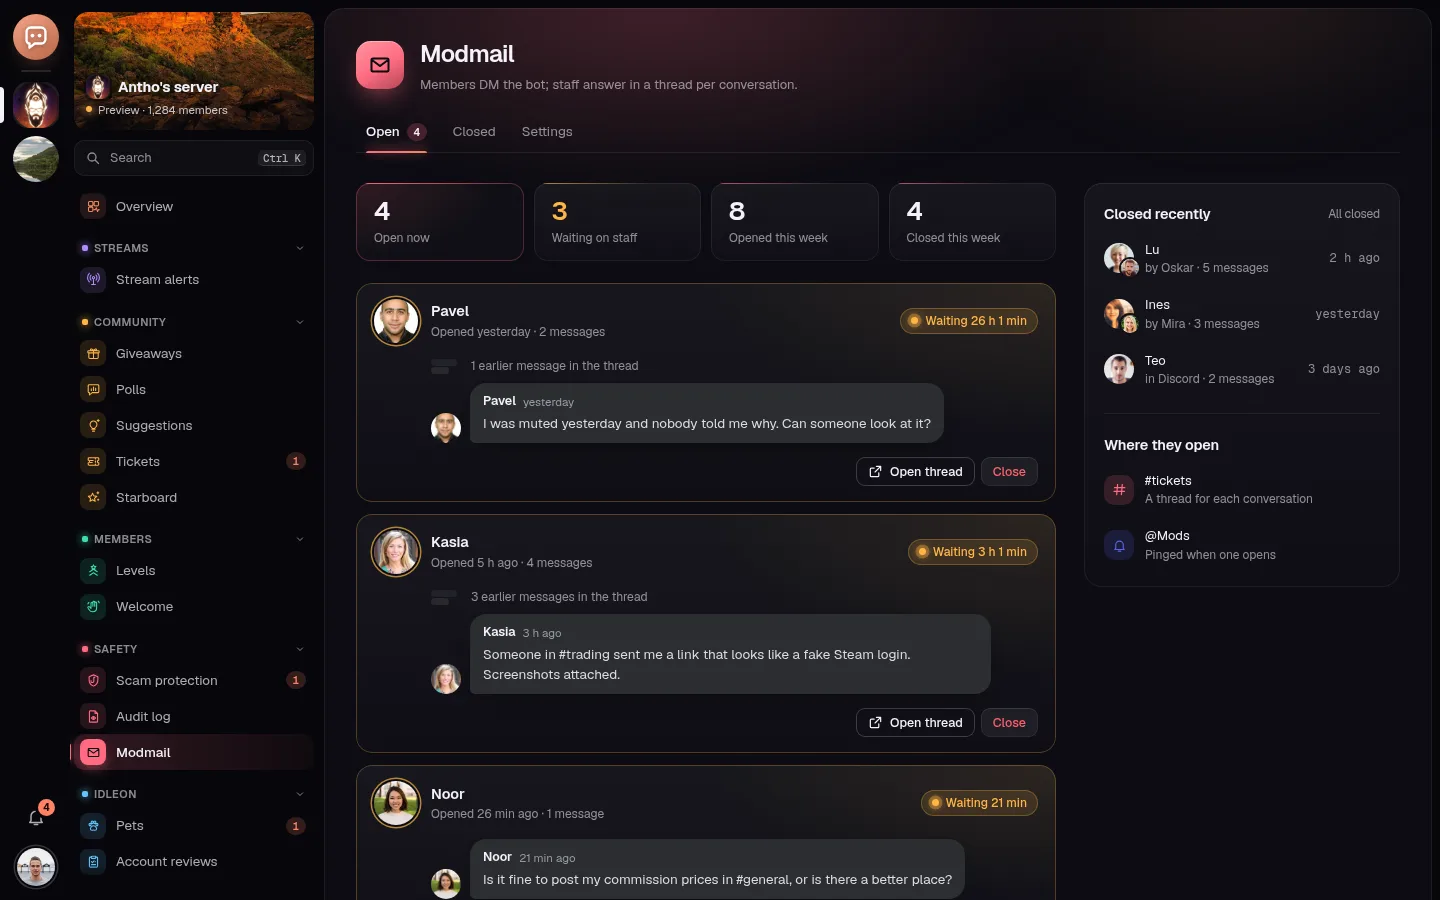
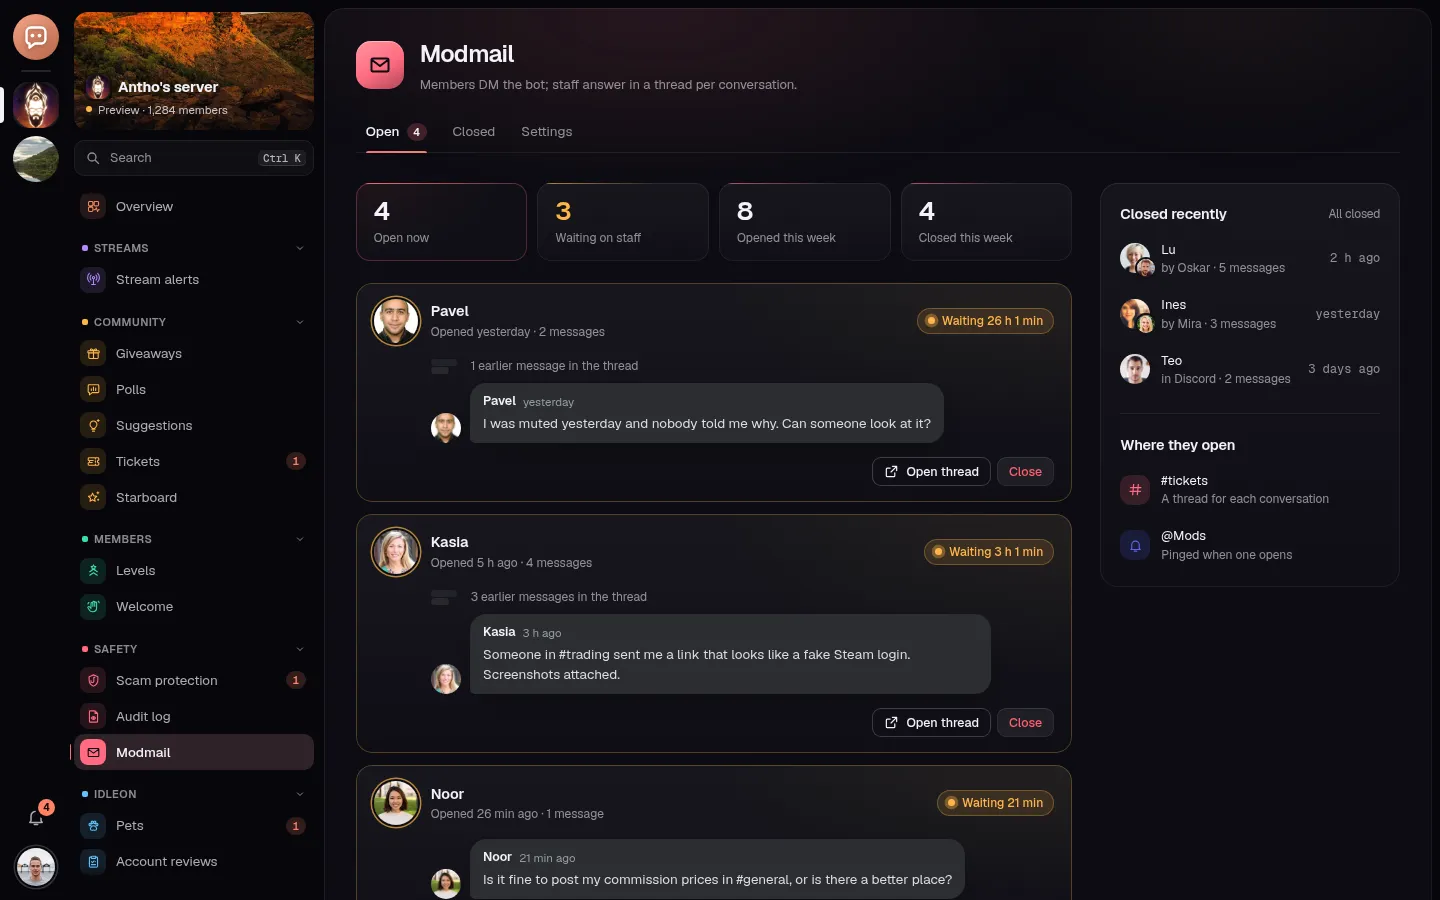
Docs: screenshots of every page with the glows out and the wider layout
Adds the overview at 2560 px. The preview's /dev/sign-in shows the real sign-in page, since its
/login now opens the preview.

diff --git a/crates/core/src/web/auth.rs b/crates/core/src/web/auth.rs
@@ -260,7 +260,8 @@ fn set_cookie(ctx: &Ctx, name: &str, value: &str, max_age_secs: i64) -> String {
 pub(super) fn routes(preview: bool) -> Router<Ctx> {
     let r = Router::new();
     let r = if preview {
-        r.route("/dev/login", get(preview_login)).route("/login", get(preview_login_page))
+        // /dev/sign-in still shows the real sign-in page, for screenshots.
+        r.route("/dev/login", get(preview_login)).route("/login", get(preview_login_page)).route("/dev/sign-in", get(login_page))
     } else {
         r.route("/login", get(login_page))
     };

diff --git a/docs/DESIGN.md b/docs/DESIGN.md
@@ -4,7 +4,7 @@ The dashboard was redesigned on 2026-10-31 after the owner found the calm V1 loo
 reference is Relay design 16, artboard **A3 · Pulse, with life**: the server's banner fading into
 the page, faces wherever people appear. V1 is kept on the `design-v1` branch and in Relay design
 17. Run `bot preview` to see every page with sample pictures; `docs/ui/` holds a screenshot of
-each (1440x900, and the overview at 390 px). Glows were taken out and the layout made to fill
+each (1440x900, plus the overview at 2560 and 390 px). Glows were taken out and the layout made to fill
 wide screens on the same day, after the owner's first look.
 
 ## The look in one paragraph
